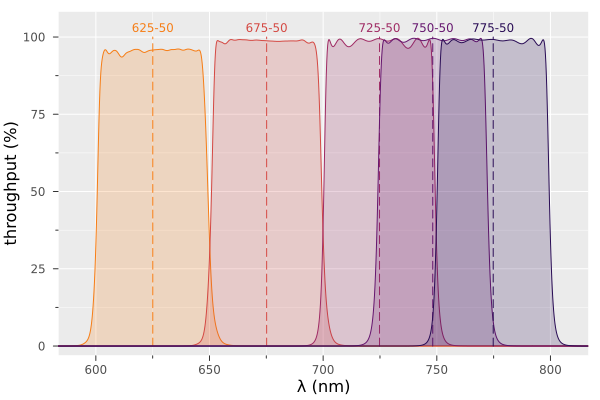
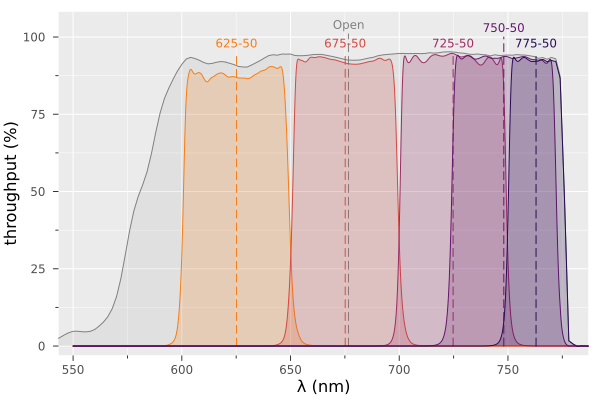
add open filter to vampires

diff --git a/030openuse.web/040vampires.web/content.html b/030openuse.web/040vampires.web/content.html
@@ -192,23 +192,26 @@ in addition to a new multi-band imaging (MBI) mode.</p>
   </thead>
   <tbody>
     <tr>
-      <td>625-50</td><td>625</td><td>49</td><td>595 - 656</td><td></td><td>Overlaps with AO188 dichroic- poor throughput</td>
+      <td>625-50</td><td>625</td><td>49</td><td>598 - 653</td><td></td><td>Overlaps with AO188 dichroic- poor throughput</td>
     </tr>
     <tr>
-      <td>675-50</td><td>675</td><td>49</td><td>645 - 706</td><td></td><td></td>
+      <td>675-50</td><td>675</td><td>49</td><td>648 - 703</td><td></td><td></td>
     </tr>
     <tr>
-      <td>725-50</td><td>725</td><td>49</td><td>696 - 754</td><td></td><td></td>
+      <td>725-50</td><td>725</td><td>49</td><td>698 - 752</td><td></td><td></td>
     </tr>
     <tr>
-      <td>750-50</td><td>748</td><td>49</td><td>719 - 778</td><td>9.62e9</td><td>Optimal polarimetric efficiency.</td>
+      <td>750-50</td><td>748</td><td>48</td><td>721 - 775</td><td>9.62e9</td><td>Optimal polarimetric efficiency.</td>
     </tr>
     <tr>
-      <td>775-50</td><td>775</td><td>49</td><td>745 - 805</td><td></td><td></td>
+      <td>775-50</td><td>763</td><td>26</td><td>748 - 778</td><td></td><td></td>
+    </tr>
+    <tr>
+      <td>Open</td><td>677</td><td>194</td><td>550 - 776</td><td></td><td>Constrained by AO188 dichroic and PyWFS dichroic.</td>
     </tr>
   </tbody>
 </table>
-<legend>*: Cut-on/Cut-off wavelengths are where the filter has at least 1% transmission<br>**: Zero-point assumes no beamsplitter and no EM gain, and should be considered unreliable for photometric calibration</legend>
+<legend>*: Cut-on/Cut-off wavelengths are where the filter has at least 5% transmission<br>**: Zero-point assumes no beamsplitter and no EM gain, and should be considered unreliable for photometric calibration</legend>
 </p>
 
 <center>
